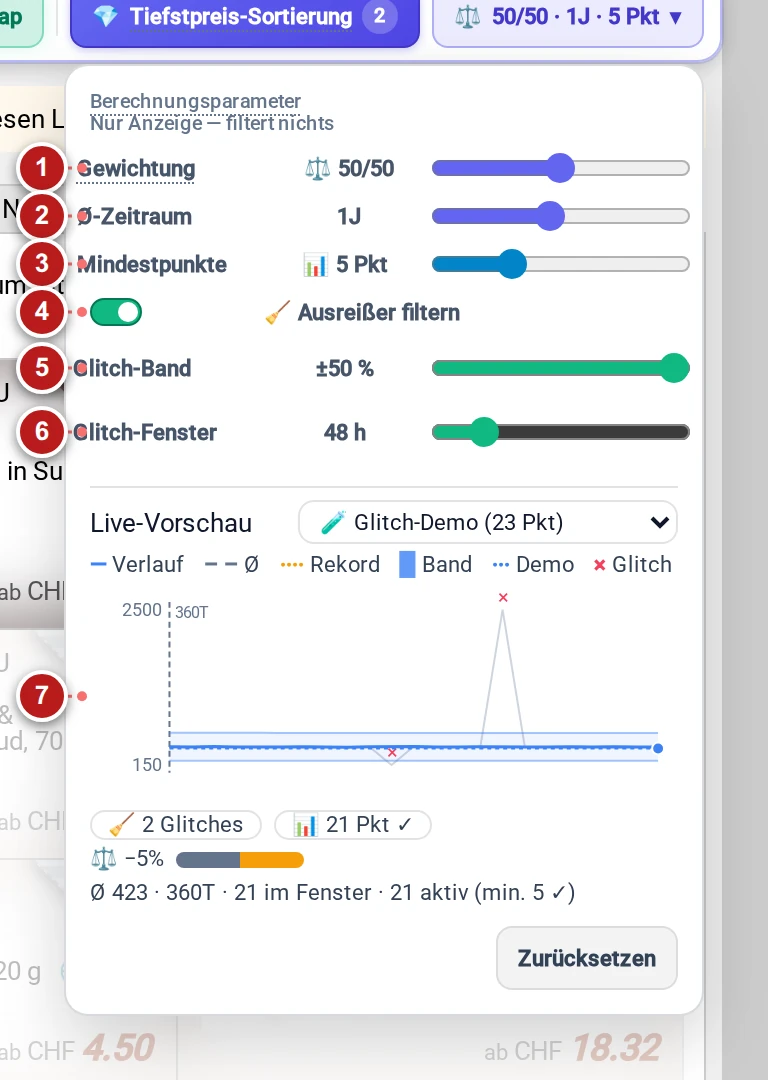
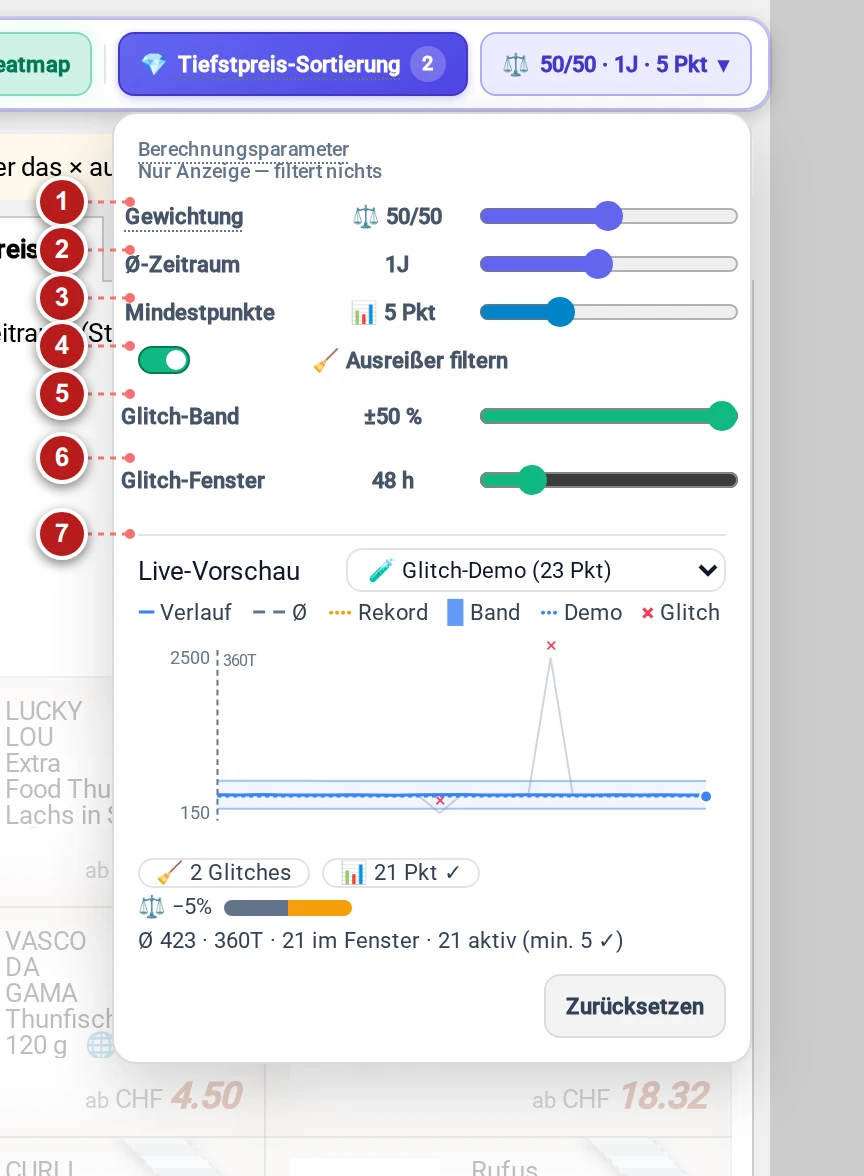
fix(shots): resolve badge overlaps, unmask missing marker 5, and add canvas padding

Changed region(s): [[0.0, 0.0, 0.9688, 1.0], [0.0, 0.5194, 0.1562, 0.7028], [0.5312, 0.9778, 0.625, 1.0]]

diff --git a/toppreise/docs/shots/index.html b/toppreise/docs/shots/index.html
@@ -125,7 +125,7 @@
 <body>
 <header>
   <h1>Toppreise.ch Suite — Screenshot Gallery</h1>
-  <div class="timestamp">Generiert: 2026-10-18 10:01:52 UTC</div>
+  <div class="timestamp">Generiert: 2026-10-18 10:53:18 UTC</div>
 </header>
 <main class="gallery-grid">
   

diff --git a/toppreise/tools/refresh-screenshot.py b/toppreise/tools/refresh-screenshot.py
@@ -359,6 +359,7 @@ def setup_toolbar(page, pids):
     """Shot 01a: Sticky toolbar with filter popover open, cleanly cropped without top whitespace."""
     page.evaluate("window.scrollTo(0, 0)")
     page.evaluate("""() => {
+        document.body.style.paddingLeft = '48px';
         document.getElementById('tp-bar-filter-popover')?.classList.add('tp-show');
     }""")
     page.wait_for_timeout(400)
@@ -375,7 +376,7 @@ def setup_toolbar(page, pids):
     controls = [
         ("#tp-bar-filter-btn", "Filter-Button (Verbergen, Dimmen oder Hervorheben je Ursache)", [-26, 16]),
         ("#tp-inline-negative-input", "Negativ-Filter (Ausschluss nach Stichwort mit Wortgrenzen)", "outside-top"),
-        ("#tp-bar-min-offers-group", "Min-Angebote Stepper (Marktplatz-Filter; nur auf Seiten mit Händlerzeilen aktiv)", "outside-top"),
+        ("[data-filter-row='min']", "Min-Angebote Stepper (Marktplatz-Filter; nur auf Seiten mit Händlerzeilen aktiv)", "outside-left"),
         ("[data-filter-row='unchecked']", "Ungeprüfte Angebote (Angebote ohne Historie verbergen/dimmen)", "outside-left"),
         ("[data-filter-row='vortief']", "Fallback-Tiefs ein-/ausschliessen (geringe Historie)", "outside-left"),
         ("[data-filter-row='deal-disc']", "Min-Rabatt Stepper (Angebote unter X% Rabatt filtern)", "outside-left"),
@@ -397,6 +398,10 @@ def setup_toolbar(page, pids):
 def setup_calc_popover(page, pids):
     """Shot 01b: Calculation popover featuring live glitch preview chart and mathematical parameters."""
     page.evaluate("window.scrollTo(0, 0)")
+    page.evaluate("""() => {
+        document.body.style.paddingLeft = '60px';
+        document.querySelectorAll('.mainContent, .leftColumn, #pageContent, .mainTopHeadContentWrapper, .mixedBrowsingListProduct, .Plugin_Product').forEach(el => el.style.opacity = '0');
+    }""")
     page.locator("#tp-bar-calc-btn").click()
     page.wait_for_selector("#tp-bar-calc-popover.tp-show", timeout=10000)
     page.wait_for_timeout(300)
@@ -412,17 +417,17 @@ def setup_calc_popover(page, pids):
     page.wait_for_timeout(400)
 
     pop_box = css_box(page, "#tp-bar-calc-popover")
-    clip = union([pop_box], pad=32)
+    clip = union([pop_box], pad=56)
     raw_bytes = page.screenshot(clip=clip)
 
     controls = [
-        ("#tp-bar-weight-wrapper", "Gewichtung Median / Rekord (Schieberegler für Deal-Score)", "outside-left"),
-        ("#tp-bar-horizon-wrapper", "Ø-Zeitraum (Rolling Median von 30 bis 730 Tagen oder Lifetime)", "outside-left"),
-        ("#tp-bar-minpoints-wrapper", "Mindestpunkte (erforderliche Datenpunkte für qualifizierten Ø-Vergleich)", "outside-left"),
-        ("#tp-bar-outlier-wrapper", "Ausreisser filtern (Aktiviert automatische Glitch-Erkennung)", "outside-left"),
-        ("#tp-bar-outlier-band-wrapper", "Glitch-Band (Toleranzband um den Median in ±%)", "outside-left"),
-        ("#tp-bar-outlier-hours-wrapper", "Glitch-Fenster (Maximale Glitch-Dauer in Stunden)", "outside-left"),
-        ("#tp-calc-preview", "Glitch-Vorschau (Live-Chart mit Ø-Preis, Rekord, Glitch-Band & roten ✕ Glitches)", "outside-left"),
+        ("#tp-bar-weight-wrapper", "Gewichtung Median / Rekord (Schieberegler für Deal-Score)", [-38, 0]),
+        ("#tp-bar-horizon-wrapper", "Ø-Zeitraum (Rolling Median von 30 bis 730 Tagen oder Lifetime)", [-38, 0]),
+        ("#tp-bar-minpoints-wrapper", "Mindestpunkte (erforderliche Datenpunkte für qualifizierten Ø-Vergleich)", [-38, 0]),
+        ("#tp-bar-outlier-wrapper", "Ausreisser filtern (Aktiviert automatische Glitch-Erkennung)", [-38, 0]),
+        ("#tp-bar-outlier-band-wrapper", "Glitch-Band (Toleranzband um den Median in ±%)", [-38, 0]),
+        ("#tp-bar-outlier-hours-wrapper", "Glitch-Fenster (Maximale Glitch-Dauer in Stunden)", [-38, 0]),
+        ("#tp-calc-preview", "Glitch-Vorschau (Live-Chart mit Ø-Preis, Rekord, Glitch-Band & roten ✕ Glitches)", [-38, 0]),
     ]
     callouts = []
     for item in controls:
@@ -470,7 +475,7 @@ def setup_feed_cards(page, pids):
     assert page.locator(".tp-is-verified").count() > 0, "no verified deal rendered"
 
     boxes = [css_box(page, sel) for sel in anchors]
-    clip = union(boxes, pad=32)
+    clip = union(boxes, pad=36)
     raw_bytes = page.screenshot(clip=clip)
 
     callouts = [
@@ -478,8 +483,8 @@ def setup_feed_cards(page, pids):
         (2, css_box(page, f"{markup} .badge-dif"), "Schein-Rabatt entlarvt (Preiserhöhung statt Ersparnis; echter Aufschlag rot hervorgehoben)", "outside-top"),
         (3, css_box(page, f"{fallback} .badge-dif"), "Fallback-Tief (Vortief-Vergleich bei wenigen Datenpunkten, dezent hervorgehoben)", "outside-top"),
         (4, css_box(page, f"{deep} > .tp-share-btn"), "Discord 1-Klick Share-Button (erscheint bei Hover zum Teilen via Webhook)", [-24, 16]),
-        (5, css_box(page, f"{deep} .tp-card-subline-row"), "Transparente Preisaufschlüsselung (Live-Preis, CHF-Ersparnis und % gegenüber 1J-Median)", "outside-right"),
-        (6, css_box(page, f"{deep} .tp-dealer-name"), "Günstigster Händler (Direktlink zum Angebot ohne Zwischenhändler)", "outside-top"),
+        (5, css_box(page, f"{deep} .tp-card-subline-row"), "Transparente Preisaufschlüsselung (Live-Preis, CHF-Ersparnis und % gegenüber 1J-Median)", "outside-bottom"),
+        (6, css_box(page, f"{deep} .tp-dealer-name"), "Günstigster Händler (Direktlink zum Angebot ohne Zwischenhändler)", [-24, 0]),
         (7, css_box(page, f"{deep} .tp-sparkline-container svg"), "Mini-Trend Sparkline (Kompakter 30-Tage-Preistrend; Klick öffnet Detail-Chart)", "outside-right"),
     ]
     return raw_bytes, {"x": clip["x"], "y": clip["y"]}, callouts, "02-feed-cards.webp"
@@ -487,6 +492,9 @@ def setup_feed_cards(page, pids):
 
 def setup_search_cards(page, pids):
     """Shot 03: Search catalog listing highlighting variant protection and inline verification pills."""
+    page.evaluate('document.body.style.paddingLeft = "50px"')
+    page.wait_for_timeout(200)
+
     block = page.locator(".Plugin_ProductCollItem").first
     block.scroll_into_view_if_needed()
 
@@ -520,7 +528,7 @@ def setup_search_cards(page, pids):
     page.wait_for_timeout(200)
 
     b_box = block.bounding_box()
-    clip = union([b_box], pad=16)
+    clip = union([b_box], pad=48)
     raw_bytes = page.screenshot(clip=clip)
     origin = {"x": clip["x"], "y": clip["y"]}
 
@@ -528,13 +536,13 @@ def setup_search_cards(page, pids):
         (1, css_box(page, deal), "Verifizierte Rabatt-Pill (Kompakte 1-zeilige Anzeige über dem Händlerangebot)", "outside-top"),
         (2, css_box(page, unchecked), "Ungeprüft-Pill (Gestreiftes Signal für noch nicht verifizierte Varianten; Klick prüft Historie)", "outside-top"),
     ]
-    cheapest_variant = try_box(page, ".Plugin_ProductCollItem div.col-12.mt-2")
+    cheapest_variant = try_box(page, ".Plugin_ProductCollItem :text('günstigste Variante')")
     if cheapest_variant:
-        callouts.append((3, cheapest_variant, "Günstigste Variante (Native Toppreise-Kennzeichnung bleibt erhalten)", "outside-left"))
+        callouts.append((3, cheapest_variant, "Günstigste Variante (Native Toppreise-Kennzeichnung bleibt erhalten)", "outside-bottom"))
 
     series_header = try_box(page, ".Plugin_ProductCollItem .f_select_series, .Plugin_ProductCollItem a[href*='/produktserie/']")
     if series_header:
-        callouts.append((4, series_header, "Produktfamilien-Gruppierung (AirPods 5 Varianten bleiben sauber im gemeinsamen Container)", "outside-left"))
+        callouts.append((4, series_header, "Produktfamilien-Gruppierung (AirPods 5 Varianten bleiben sauber im gemeinsamen Container)", [-36, 0]))
 
     return raw_bytes, origin, callouts, "03-search-cards.webp"
 
@@ -566,15 +574,17 @@ def setup_settings_core(page, pids):
     page.wait_for_timeout(300)
 
     dlg_loc = page.locator(dlg)
-    raw_bytes = dlg_loc.screenshot()
-    origin = dlg_loc.bounding_box()
+    dlg_box = dlg_loc.bounding_box()
+    clip = union([dlg_box], pad=48)
+    raw_bytes = page.screenshot(clip=clip)
+    origin = {"x": clip["x"], "y": clip["y"]}
 
     controls = [
-        ("#tp-dim-opacity-group", "Deckkraft / Dimmung für gefilterte Angebote (Schieberegler)", "outside-left"),
-        ("#tp-review-search-toggle", "Review-Suche (🌐): Google-Suche mit optionalem KI-Modus", "outside-left"),
-        ("#tp-bestpreise-mode-toggle", "Tiefstpreis-Sortierung: Rangfolge nach Gewichteter Differenz", "outside-left"),
-        ("#tp-margin-range", "Preis-Toleranz (%): Händler-Bestpreis-Marge", "outside-left"),
-        ("#tp-section-alarm .tp-range-container", "Preisalarm Auto-Fill: Zielpreis (%) & Dauer", "outside-left"),
+        ("#tp-dim-opacity-group", "Deckkraft / Dimmung für gefilterte Angebote (Schieberegler)", [-36, 0]),
+        ("#tp-review-search-toggle", "Review-Suche (🌐): Google-Suche mit optionalem KI-Modus", [-36, 0]),
+        ("#tp-bestpreise-mode-toggle", "Tiefstpreis-Sortierung: Rangfolge nach Gewichteter Differenz", [-36, 0]),
+        ("#tp-margin-range", "Preis-Toleranz (%): Händler-Bestpreis-Marge", [-36, 0]),
+        ("#tp-section-alarm .tp-range-container", "Preisalarm Auto-Fill: Zielpreis (%) & Dauer", [-36, 0]),
     ]
     callouts = []
     for sel, cap, anchor in controls:
@@ -616,15 +626,17 @@ def setup_settings_advanced(page, pids):
     page.wait_for_timeout(300)
 
     dlg_loc = page.locator(dlg)
-    raw_bytes = dlg_loc.screenshot()
-    origin = dlg_loc.bounding_box()
+    dlg_box = dlg_loc.bounding_box()
+    clip = union([dlg_box], pad=48)
+    raw_bytes = page.screenshot(clip=clip)
+    origin = {"x": clip["x"], "y": clip["y"]}
 
     controls = [
-        ("#tp-discord-webhook-collapsed", "Discord Webhook: Direkte 1-Klick Deal-Integration (lokal gespeichert)", "outside-left"),
-        ("#tp-discord-layout-chips", "Discord Layout-Baukasten mit variablen Tokens", "outside-left"),
-        ("#tp-discord-layout-preview", "Live-Markdown-Vorschau der generierten Nachricht", "outside-left"),
-        ("#tp-dealer-autofetch-toggle", "Händler automatisch im Hintergrund laden (max. 3 parallel)", "outside-left"),
-        ("#tp-cache-clear-btn", "Cache-Verwaltung: TTL-Regler, Speicherbereinigung & Konfigurations-Export", "outside-left"),
+        ("#tp-discord-webhook-collapsed", "Discord Webhook: Direkte 1-Klick Deal-Integration (lokal gespeichert)", [-36, 0]),
+        ("#tp-discord-layout-chips", "Discord Layout-Baukasten mit variablen Tokens", [-36, 0]),
+        ("#tp-discord-layout-preview", "Live-Markdown-Vorschau der generierten Nachricht", [-36, 0]),
+        ("#tp-dealer-autofetch-toggle", "Händler automatisch im Hintergrund laden (max. 3 parallel)", [-36, 0]),
+        ("#tp-cache-clear-btn", "Cache-Verwaltung: TTL-Regler, Speicherbereinigung & Konfigurations-Export", [-36, 0]),
     ]
     callouts = []
     for sel, cap, anchor in controls:

diff --git a/toppreise/README.de.md b/toppreise/README.de.md
@@ -26,7 +26,7 @@ Erfordert einen Userscript-Manager als Browser-Erweiterung:
 - [Violentmonkey](https://violentmonkey.github.io/) (empfohlen: [Firefox](https://addons.mozilla.org/en-US/firefox/addon/violentmonkey/) · [Chrome / Brave](https://chromewebstore.google.com/detail/violentmonkey/jinjaccalgkegednnccohejagnlnfdag))
 - [Tampermonkey](https://www.tampermonkey.net/)
 
-### 👉 [**HIER KLICKEN ZUR INSTALLATION (v2.18.314)**](https://raw.githubusercontent.com/tazztone/userscripts/main/toppreise/toppreise.user.js)
+### 👉 [**HIER KLICKEN ZUR INSTALLATION (v2.18.330)**](https://raw.githubusercontent.com/tazztone/userscripts/main/toppreise/toppreise.user.js)
 
 > [!NOTE]
 > Das Skript enthält `@updateURL`- und `@downloadURL`-Metadaten. Dein Userscript-Manager prüft GitHub automatisch im Hintergrund und hält die Installation aktuell.
